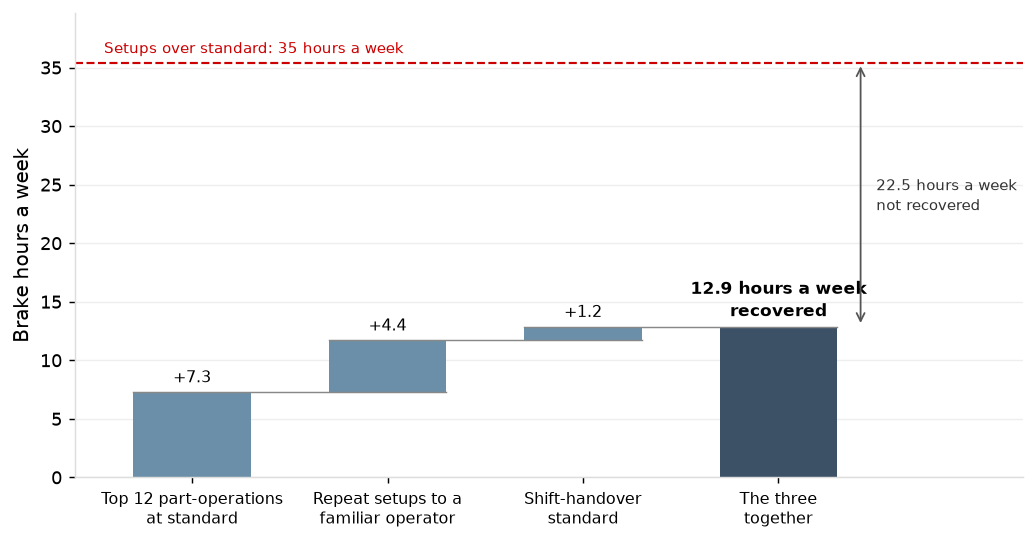
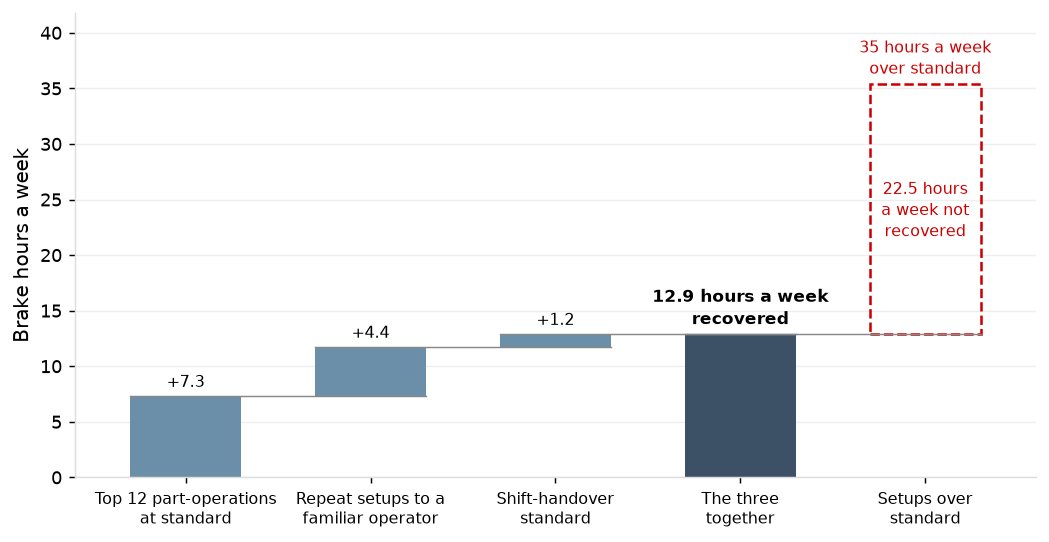
Capacity report: planned against actual brake hours, crewed hours subsection

diff --git a/docs/reports/capacity_constraints_and_setups.html b/docs/reports/capacity_constraints_and_setups.html
@@ -93,19 +93,19 @@ nav.toc a.sub { font-size: 12px; padding-left: 22px; }
 <div class='chart-title'>Share of Brake Setups Against Share of Overrun Hours by Condition, 2025</div><img alt="Share of Brake Setups Against Share of Overrun Hours by Condition, 2025" src="../figures/capacity_setup_conditions.png?v=ac1abf96"><div class='caption'>Conditions overlap; a setup can fall under more than one.</div>
 <h3 id='f3_2'>What can be recovered</h3>
 <p>Three changes recover 12.9 of the 35 hours a week, 3.8 points of brake utilization, taking the brakes from 91% to 87% and queue time on the curve from 3.08 to 1.95 days per operation. Running the top 12 part-operations by overrun at standard releases 7.3 hours a week; the rest of the overrun is spread across 1,980 part-operations. Assigning repeat setups to an operator who has set the part up before releases 4.4: first setups of a repeat part by a new operator ran at 1.56 of standard against 1.28 with prior familiarity. A handover standard, under which the operator who starts a setup finishes it or leaves a written handover at the machine, releases 1.2, the handover's own cost once long setups are set aside. The report <a href='options_tested.html'>What Moves On-Time Delivery</a> carries these 12.9 hours as the setup program. See Appendix Tables <a href='#t18'>18</a> to <a href='#t21'>21</a> for additional detail.</p>
-<div class='chart-title'>Brake Hours a Week Released by Setup Lever, 2025</div><img alt="Brake Hours a Week Released by Setup Lever, 2025" src="../figures/capacity_brake_hours_by_lever.png?v=0e3a606e">
+<div class='chart-title'>Brake Hours a Week Released by Setup Lever, 2025</div><img alt="Brake Hours a Week Released by Setup Lever, 2025" src="../figures/capacity_brake_hours_by_lever.png?v=92b17310">
 <p>Two apparent levers are smaller than they look. Operators with under 12 months run 16% above tenured operators, but 5% once familiarity, grouping, machine, lot size, bend count and shift handover are controlled for: their 636 setups were made by 4 operators, 400 by one, 67% of them on B4, and 68% were first setups of parts new to them (against 41% for tenured operators). The tenure gap is largely the familiarity gap already counted above and the work new operators are given, not a training problem. See Appendix Table <a href='#t22'>22</a> for additional detail.</p>
 <div class='chart-title'>Tenure Effect on Brake Setup Ratio as Controls Are Added</div><img alt="Tenure Effect on Brake Setup Ratio as Controls Are Added" src="../figures/setups_tenure_decomposition.png?v=5ffbf705">
 <p>Same-tooling grouping already saves 5.4 hours a week: 38% of brake setups follow a job on the same tooling set and run at 0.92 of standard against 1.33. B1 and B2 group only 26% to 27% of their setups against 42% to 46% on B3 to B5, because precision work and the hot list are run on them first; raising grouping there means loosening the priority that keeps their queues short (Section 2), so it is not counted as a lever. See Appendix Table <a href='#t23'>23</a> for additional detail.</p>
 <h3 id='f3_3'>Planning standards</h3>
-<p>The schedule and the quote are planned in standard hours, and two groups of standards misstate the hours the brakes and lasers will take, so the plan commits capacity it does not have or holds back capacity it does. L2 and L3 run at 0.81 of the run standard and L1 at 1.00; every other work center runs at 1.01 to 1.06. 553 of 1,931 active parts (29%) carry a stale standard (one dated at the part's first quote) and run 7% to 16% further above standard than refreshed parts at the same work center. See Appendix Tables <a href='#t24'>24</a> and <a href='#t25'>25</a> for additional detail.</p>
-<div class='chart-title'>Run Actual Over Standard by Work Center</div><img alt="Run Actual Over Standard by Work Center" src="../figures/setups_run_ratio.png?v=8e8c80db">
-<p>With the stale standards refreshed, planned hours rise 1.7% at the brakes and 0.9% to 3.0% elsewhere; standard hours per job rise 8% on jobs for those parts (24% of jobs) and 1.9% overall. With the L2 and L3 run standards set to measured, planned laser hours fall 13.6% and standard hours per job fall 2.6%. Both together move standard hours per job by -0.7%. The 553 stale standards should be refreshed and the L2 and L3 run standards set to measured, with the effect on standard hours per job going to estimating (<a href='quoting_and_early_warning.html'>Quoting and Early Warning from Load</a>). See Appendix Tables <a href='#t26'>26</a> and <a href='#t27'>27</a> for additional detail.</p>
-<h3 id='f3_4'>The peak and the open shift</h3>
-<p>The recovered setup hours cover an ordinary quarter; the year-end peak needs hours the brakes do not have, and the robotic weld cell has a shift it does not crew. In the six weeks from November 11, 2024 the shop released 355 brake standard hours a week against 284 hours of crewed brake capacity net of downtime (weekday shifts, in standard hours at the brakes' 1.16 actual-over-standard ratio for 2024), a shortfall of 70 hours a week that the queue absorbed; the shop ran 2 queue-triggered Saturday brake shifts and 0 extended hours over the period, supplying 28 standard hours. One Saturday brake shift on B1 and B2 supplies 14 standard hours (16 machine hours), 20% of the weekly gap; the options report tests a planned Saturday shift every week from November through February against the queue-triggered practice. See Appendix Table <a href='#t28'>28</a> for additional detail.</p>
+<p>The schedule and the quote are built in standard hours, and the brake standards understate what the brakes actually take: the 2025 plan carried 14,002 brake hours against 16,052 run, a gap of 2,050 hours, or 11.5 points of utilization the schedule did not see. Two corrections bring part of it onto the plan. Raising the setup standard on lots under 25 pieces by 24% adds 519 hours. Refreshing the 539 stale brake standards (those dated at the part's first quote, which run 7% further above standard than refreshed parts) adds 240. Together they close 37% of the gap, and the setup recovery above takes a further 669 hours off the actual. What remains, 621 hours, is the overrun the plan will still not see. See Appendix Tables <a href='#t24'>24</a> to <a href='#t27'>27</a> for additional detail.</p>
+<div class='chart-title'>Brake Hours: Planned Against Actual, 2025</div><img alt="Brake Hours: Planned Against Actual, 2025" src="../figures/capacity_brake_hours_planned_against_actual.png?v=e7ccff60">
+<p>Away from the constraint, the L2 and L3 lasers run at 0.81 of their run standard, so planned laser hours are overstated by 13.6%; setting those standards to measured is an estimating correction (<a href='quoting_and_early_warning.html'>Quoting and Early Warning from Load</a>) rather than a capacity one.</p>
+<h3 id='f3_4'>Where crewed hours fall short</h3>
+<p>Setup recovery adds 12.9 brake hours a week; the year-end peak needs far more. In the six weeks from November 11, 2024 the shop released 355 brake standard hours a week against 284 of crewed capacity, a shortfall of about 70 hours a week that went into the queue. Queue-triggered Saturday shifts covered almost none of it: 2 shifts in six weeks, 28 hours in total. One planned Saturday shift on B1 and B2 supplies 14 hours, a fifth of the weekly gap; the options report tests one every week from November through February. See Appendix Table <a href='#t28'>28</a> for additional detail.</p>
 <div class='chart-title'>Brake Hours Released Against Capacity by Week, Q4 2024 to Q1 2025</div><img alt="Brake Hours Released Against Capacity by Week, Q4 2024 to Q1 2025" src="../figures/capacity_brake_hours_released.png?v=f893d7ce">
 <p>The robotic weld cell runs one shift at 83% utilization and is at or above 95% in 20 weeks of 52; its second shift is uncrewed. Enclosures are 78% of its hours, so a second shift would serve the enclosure customers first. The options report tests and prices crewing it. See Appendix Table <a href='#t29'>29</a> for additional detail.</p>
-<p>Measured from the record: the brakes lose 35 hours a week to setups over standard, enough to put them above the knee of their curve on its own; 12.9 of those hours are recoverable by three changes; the small-lot setup standard, 553 stale standards and the L2 and L3 run standards misstate planned hours in known directions; the year-end peak releases about 70 brake hours a week more than the brakes can run; and the robotic weld cell's second shift is uncrewed. The options report takes these as its inputs.</p>
+<p><b>Measured from the record: the brakes lose 35 hours a week to setups over standard, enough to put them above the knee of their curve on its own; 12.9 of those hours are recoverable by three changes; the small-lot setup standard, 553 stale standards and the L2 and L3 run standards misstate planned hours in known directions; the year-end peak releases about 70 brake hours a week more than the brakes can run; and the robotic weld cell's second shift is uncrewed. <a href='options_tested.html'>What Moves On-Time Delivery</a> takes these as its inputs.</b></p>
 <h2 id='appendix'>Appendix</h2>
 <h3 id='t1'>Table 1. Utilization and machine uptime by work center</h3><table class="data"><thead><tr><th>Work center</th><th>Machines</th><th>Operations</th><th>Scheduled hours</th><th>Machine hours</th><th>Downtime hours</th><th>Available hours</th><th>Utilization</th><th>Uptime</th><th>Queue time, mean</th><th>Utilization, Q2-Q4</th><th>Uptime, Q2-Q4</th><th>Queue time, mean, Q2-Q4</th></tr></thead><tbody><tr><td class="">Press brake</td><td class="">5</td><td class="">5,692</td><td class="">18,300</td><td class="">16,268</td><td class="">470</td><td class="">17,830</td><td class="">91%</td><td class="">97%</td><td class="">3.54</td><td class="">91%</td><td class="">97%</td><td class="">1.77</td></tr><tr><td class="">Robotic weld</td><td class="">1</td><td class="">423</td><td class="">1,992</td><td class="">1,598</td><td class="">57</td><td class="">1,935</td><td class="">83%</td><td class="">97%</td><td class="">3.64</td><td class="">83%</td><td class="">97%</td><td class="">3.93</td></tr><tr><td class="">Laser</td><td class="">3</td><td class="">4,378</td><td class="">10,152</td><td class="">7,242</td><td class="">329</td><td class="">9,823</td><td class="">74%</td><td class="">97%</td><td class=""></td><td class="">74%</td><td class="">97%</td><td class=""></td></tr><tr><td class="">Assembly</td><td class="">2</td><td class="">695</td><td class="">3,984</td><td class="">2,669</td><td class="">100</td><td class="">3,884</td><td class="">69%</td><td class="">97%</td><td class="">1.91</td><td class="">67%</td><td class="">97%</td><td class="">1.58</td></tr><tr><td class="">Inspection and pack</td><td class="">2</td><td class="">5,241</td><td class="">3,984</td><td class="">2,573</td><td class="">144</td><td class="">3,840</td><td class="">67%</td><td class="">96%</td><td class="">0.65</td><td class="">65%</td><td class="">96%</td><td class="">0.68</td></tr><tr><td class="">Grind and deburr</td><td class="">2</td><td class="">5,680</td><td class="">3,984</td><td class="">2,586</td><td class="">115</td><td class="">3,869</td><td class="">67%</td><td class="">97%</td><td class="">0.88</td><td class="">65%</td><td class="">97%</td><td class="">0.79</td></tr><tr><td class="">Manual weld</td><td class="">6</td><td class="">1,568</td><td class="">11,952</td><td class="">7,693</td><td class="">346</td><td class="">11,606</td><td class="">66%</td><td class="">97%</td><td class="">1.07</td><td class="">62%</td><td class="">97%</td><td class="">0.83</td></tr><tr><td class="">Punch</td><td class="">1</td><td class="">820</td><td class="">1,992</td><td class="">1,284</td><td class="">49</td><td class="">1,943</td><td class="">66%</td><td class="">98%</td><td class=""></td><td class="">64%</td><td class="">98%</td><td class=""></td></tr><tr><td class="">Hardware</td><td class="">2</td><td class="">2,167</td><td class="">3,984</td><td class="">2,572</td><td class="">83</td><td class="">3,901</td><td class="">66%</td><td class="">98%</td><td class="">0.87</td><td class="">65%</td><td class="">98%</td><td class="">0.87</td></tr><tr><td class="">Powder coat</td><td class="">1</td><td class="">2,367</td><td class="">2,044</td><td class="">1,106</td><td class="">53</td><td class="">1,991</td><td class="">56%</td><td class="">97%</td><td class="">0.56</td><td class="">54%</td><td class="">98%</td><td class="">0.53</td></tr></tbody></table>
 <h3 id='t2'>Table 2. Weekly utilization at or above 95% by work center: weeks, queue time, jobs at the work center and share of hours</h3><p><b>2025</b></p><table class="data"><thead><tr><th>Work center</th><th>Utilization</th><th>Weeks at or above 95%</th><th>Of which full five-day weeks</th><th>Queue time in those weeks</th><th>Queue time in the other weeks</th><th>Jobs at the work center in those weeks, daily mean</th><th>Jobs at the work center in the other weeks, daily mean</th><th>Share of machine hours in those weeks</th></tr></thead><tbody><tr><td class="">Press brake</td><td class="">91%</td><td class="">24 of 52</td><td class="">20</td><td class="">3.06</td><td class="">3.98</td><td class="">63.5</td><td class="">86.0</td><td class="">48%</td></tr><tr><td class="">Robotic weld</td><td class="">83%</td><td class="">20 of 52</td><td class="">15</td><td class="">5.05</td><td class="">2.89</td><td class="">9.2</td><td class="">5.5</td><td class="">44%</td></tr><tr><td class="">Laser</td><td class="">74%</td><td class="">4 of 52</td><td class="">3</td><td class="">2.21</td><td class="">1.25</td><td class="">91.3</td><td class="">48.4</td><td class="">9%</td></tr><tr><td class="">Assembly</td><td class="">69%</td><td class="">11 of 52</td><td class="">10</td><td class="">4.35</td><td class="">1.09</td><td class="">12.7</td><td class="">4.6</td><td class="">30%</td></tr><tr><td class="">Inspection and pack</td><td class="">67%</td><td class="">0 of 52</td><td class="">0</td><td class=""></td><td class="">0.65</td><td class=""></td><td class="">14.5</td><td class="">0%</td></tr><tr><td class="">Grind and deburr</td><td class="">67%</td><td class="">2 of 52</td><td class="">1</td><td class="">1.89</td><td class="">0.84</td><td class="">45.8</td><td class="">19.9</td><td class="">4%</td></tr><tr><td class="">Manual weld</td><td class="">66%</td><td class="">3 of 52</td><td class="">3</td><td class="">2.81</td><td class="">0.97</td><td class="">28.4</td><td class="">9.4</td><td class="">9%</td></tr><tr><td class="">Punch</td><td class="">66%</td><td class="">10 of 52</td><td class="">8</td><td class="">2.22</td><td class="">0.38</td><td class="">13.3</td><td class="">6.8</td><td class="">27%</td></tr><tr><td class="">Hardware</td><td class="">66%</td><td class="">0 of 52</td><td class="">0</td><td class=""></td><td class="">0.87</td><td class=""></td><td class="">9.5</td><td class="">0%</td></tr><tr><td class="">Powder coat</td><td class="">56%</td><td class="">0 of 52</td><td class="">0</td><td class=""></td><td class="">0.56</td><td class=""></td><td class="">15.1</td><td class="">0%</td></tr></tbody></table><p><b>2025 Q2-Q4</b></p><table class="data"><thead><tr><th>Work center</th><th>Utilization</th><th>Weeks at or above 95%</th><th>Of which full five-day weeks</th><th>Queue time in those weeks</th><th>Queue time in the other weeks</th><th>Jobs at the work center in those weeks, daily mean</th><th>Jobs at the work center in the other weeks, daily mean</th><th>Share of machine hours in those weeks</th></tr></thead><tbody><tr><td class="">Press brake</td><td class="">91%</td><td class="">21 of 39</td><td class="">17</td><td class="">2.00</td><td class="">1.57</td><td class="">41.0</td><td class="">35.0</td><td class="">57%</td></tr><tr><td class="">Robotic weld</td><td class="">83%</td><td class="">17 of 39</td><td class="">13</td><td class="">5.26</td><td class="">2.94</td><td class="">9.9</td><td class="">5.9</td><td class="">50%</td></tr><tr><td class="">Laser</td><td class="">74%</td><td class="">3 of 39</td><td class="">3</td><td class="">1.99</td><td class="">0.83</td><td class="">78.8</td><td class="">46.3</td><td class="">10%</td></tr><tr><td class="">Assembly</td><td class="">67%</td><td class="">5 of 39</td><td class="">5</td><td class="">3.72</td><td class="">1.15</td><td class="">10.9</td><td class="">5.0</td><td class="">19%</td></tr><tr><td class="">Hardware</td><td class="">65%</td><td class="">0 of 39</td><td class="">0</td><td class=""></td><td class="">0.88</td><td class=""></td><td class="">9.8</td><td class="">0%</td></tr><tr><td class="">Inspection and pack</td><td class="">65%</td><td class="">0 of 39</td><td class="">0</td><td class=""></td><td class="">0.68</td><td class=""></td><td class="">15.3</td><td class="">0%</td></tr><tr><td class="">Grind and deburr</td><td class="">65%</td><td class="">0 of 39</td><td class="">0</td><td class=""></td><td class="">0.79</td><td class=""></td><td class="">19.6</td><td class="">0%</td></tr><tr><td class="">Punch</td><td class="">64%</td><td class="">7 of 39</td><td class="">6</td><td class="">1.26</td><td class="">0.26</td><td class="">11.2</td><td class="">6.6</td><td class="">27%</td></tr><tr><td class="">Manual weld</td><td class="">62%</td><td class="">1 of 39</td><td class="">1</td><td class="">2.58</td><td class="">0.78</td><td class="">25.4</td><td class="">8.5</td><td class="">4%</td></tr><tr><td class="">Powder coat</td><td class="">54%</td><td class="">0 of 39</td><td class="">0</td><td class=""></td><td class="">0.53</td><td class=""></td><td class="">14.4</td><td class="">0%</td></tr></tbody></table><p><b>2023 to 2025</b></p><table class="data"><thead><tr><th>Work center</th><th>Weeks at or above 95%</th><th>Queue time in those weeks</th><th>Queue time in the other weeks</th></tr></thead><tbody><tr><td class="">Press brake</td><td class="">40 of 155</td><td class="">2.42</td><td class="">1.68</td></tr><tr><td class="">Robotic weld</td><td class="">39 of 155</td><td class="">4.23</td><td class="">1.93</td></tr><tr><td class="">Assembly</td><td class="">20 of 155</td><td class="">3.44</td><td class="">1.09</td></tr><tr><td class="">Punch</td><td class="">18 of 155</td><td class="">2.40</td><td class="">0.40</td></tr><tr><td class="">Manual weld</td><td class="">7 of 155</td><td class="">2.98</td><td class="">0.97</td></tr><tr><td class="">Laser</td><td class="">6 of 155</td><td class="">2.11</td><td class="">1.06</td></tr><tr><td class="">Grind and deburr</td><td class="">3 of 155</td><td class="">1.77</td><td class="">0.81</td></tr><tr><td class="">Hardware</td><td class="">2 of 155</td><td class="">1.66</td><td class="">0.86</td></tr><tr><td class="">Powder coat</td><td class="">0 of 155</td><td class=""></td><td class="">0.54</td></tr><tr><td class="">Inspection and pack</td><td class="">0 of 155</td><td class=""></td><td class="">0.68</td></tr></tbody></table><p><b>Brake queue 90th percentile by quarter, 2025</b></p><table class="data"><thead><tr><th>Q1</th><th>Q2</th><th>Q3</th><th>Q4</th></tr></thead><tbody><tr><td class="">17.1</td><td class="">9.1</td><td class="">2.8</td><td class="">3.0</td></tr></tbody></table>

diff --git a/analytics/reports/capacity_constraints_and_setups.py b/analytics/reports/capacity_constraints_and_setups.py
@@ -373,6 +373,54 @@ def fig_brake_cases():
     return save(f, "capacity_brake_utilization_setup_overrun", f"Brake Utilization and Queue Time on the Curve, With and Without Setup Overrun, {YEAR}")
 
 
+def brake_plan():
+    """Brake hours for the year as planned and as run, on the operations with a routing standard: the plan with the small-lot setup standard raised and
+    the stale standards refreshed, and the actual with the recoverable setup hours taken off."""
+    r = S.D["r"]
+    b = r[r["has_routing"] & (r["work_center"] == "press_brake")]
+    planned, actual = float((b["setup_std"] + b["run_std_hours"]).sum()), float((b["setup_hours"] + b["run_hours"]).sum())
+    bump = float(S.LOT.loc["under 25", "median_ratio"] / S.LOT.drop("under 25")["median_ratio"].mean() - 1)
+    small = float(b[b["qty"] < 25]["setup_std"].sum() * bump)
+    w = S.SWC.set_index("work_center").loc["press_brake"]
+    assert abs(w["planned"] - planned) < 1e-6
+    stale = float(w["refreshed"] - w["planned"])
+    recovery = float(S.LEVERS) * SA.WEEKS
+    corrected, recovered = planned + small + stale, actual - recovery
+    u = C.UY.loc["press_brake"]
+    return dict(planned=planned, actual=actual, gap=actual - planned, points=(actual - planned) / float(u["scheduled"] - u["down"]) * 100, bump=bump, small=small,
+                stale=stale, stale_parts=int(b[b["stale_standard"]]["part_id"].nunique()), closed=(small + stale) / (actual - planned), recovery=recovery,
+                corrected=corrected, recovered=recovered, remaining=recovered - corrected)
+
+
+def fig_brake_plan():
+    p = brake_plan()
+    rows = [("Planned, current standards", 0, p["planned"], LIGHT_BLUE, f"{p['planned']:,.0f}"),
+            ("+ Small-lot setup standard", p["planned"], p["small"], ACCENT, f"+{p['small']:,.0f}"),
+            ("+ Stale standards refreshed", p["planned"] + p["small"], p["stale"], ACCENT, f"+{p['stale']:,.0f}"),
+            ("= Planned, corrected", 0, p["corrected"], BRAND_BLUE, f"{p['corrected']:,.0f}"),
+            ("Actual", 0, p["actual"], LIGHT_BLUE, f"{p['actual']:,.0f}"),
+            ("\u2212 Setup recovery", p["recovered"], p["recovery"], ACCENT, f"\u2212{p['recovery']:,.0f}"),
+            ("= Actual, with recovery", 0, p["recovered"], BRAND_BLUE, f"{p['recovered']:,.0f}")][::-1]
+    y = np.arange(len(rows))
+    start = float(np.floor(p["planned"] / 1000 - 1) * 1000)          # the axis starts short of the plan, so that steps of a few hundred hours can be read
+    f, ax = fig(h=4.6, grid="x")
+    for yi, (_, left, width, color, label) in zip(y, rows):
+        ax.barh([yi], [float(sig(width))], left=float(sig(left)), height=0.6, color=color)
+        ax.text(float(sig(left + width)) + 40, yi, label, ha="left", va="center", fontsize=9)
+    lo, hi = float(sig(p["corrected"])), float(sig(p["recovered"]))
+    ax.plot([lo, lo], [0, 3], color=RED, linewidth=1.0, linestyle="--")
+    ax.plot([lo, lo, hi, hi], [-0.42, -0.62, -0.62, -0.42], color=RED, linewidth=1.3)
+    ax.text((lo + hi) / 2, -0.72, f"Remaining gap, {p['remaining']:,.0f} hours", ha="center", va="top", fontsize=9, color=RED)
+    ax.set_yticks(y)
+    ax.set_yticklabels([r_[0] for r_ in rows])
+    ax.set_xlim(start, p["actual"] * 1.045)
+    ax.set_ylim(-1.25, len(rows) - 0.4)
+    ax.xaxis.set_major_formatter(lambda t, _: f"{t:,.0f}")
+    ax.set_xlabel(f"Brake machine hours, {YEAR}")
+    f.tight_layout()
+    return save(f, "capacity_brake_hours_planned_against_actual", f"Brake Hours: Planned Against Actual, {YEAR}")
+
+
 def fig_levers():
     """Brake hours a week recovered by each setup lever, stepping up to the three together, against the setup overrun."""
     cf = S.HCF.iloc[1]
@@ -391,14 +439,14 @@ def fig_levers():
     n = len(steps)
     ax.bar([n], [float(sig(total))], width=0.6, color=BRAND_BLUE)
     ax.text(n, total + 0.5, f"{total:.1f} hours a week" + "\n" + "recovered", ha="center", va="bottom", fontsize=9.5, fontweight="bold", linespacing=1.3)
-    ax.axhline(float(sig(over)), color=RED, linewidth=1.2, linestyle="--")
-    ax.text(-0.45, over + 0.5, f"Setups over standard: {over:.0f} hours a week", ha="left", va="bottom", fontsize=8.5, color=RED)
-    ax.annotate("", (n + 0.42, float(sig(over))), (n + 0.42, float(sig(total))), arrowprops=dict(arrowstyle="<->", color="#555555", linewidth=1.0))
-    ax.text(n + 0.5, (over + total) / 2, f"{over - total:.1f} hours a week" + "\n" + "not recovered", ha="left", va="center", fontsize=8.5, color="#333333", linespacing=1.3)
-    ax.set_xticks(range(n + 1))
-    ax.set_xticklabels([s_ for s_, _ in steps] + ["The three" + "\n" + "together"], fontsize=9)
-    ax.set_xlim(-0.6, n + 1.25)
-    ax.set_ylim(0, over * 1.12)
+    ax.plot([n - 0.3, n + 1.3], [float(sig(total))] * 2, color="#888888", linewidth=0.8)
+    ax.bar([n + 1], [float(sig(over - total))], bottom=float(sig(total)), width=0.6, fill=False, edgecolor=RED, linestyle="--", linewidth=1.4)
+    ax.text(n + 1, (over + total) / 2, f"{over - total:.1f} hours" + "\n" + "a week not" + "\n" + "recovered", ha="center", va="center", fontsize=9, color=RED, linespacing=1.3)
+    ax.text(n + 1, over + 0.5, f"{over:.0f} hours a week" + "\n" + "over standard", ha="center", va="bottom", fontsize=9, color=RED, linespacing=1.3)
+    ax.set_xticks(range(n + 2))
+    ax.set_xticklabels([s_ for s_, _ in steps] + ["The three" + "\n" + "together", "Setups over" + "\n" + "standard"], fontsize=9)
+    ax.set_xlim(-0.6, n + 1.6)
+    ax.set_ylim(0, over * 1.18)
     ax.set_ylabel("Brake hours a week")
     f.tight_layout()
     return save(f, "capacity_brake_hours_by_lever", f"Brake Hours a Week Released by Setup Lever, {YEAR}")
@@ -768,47 +816,45 @@ def build():
              f"{T.see('grouping')}</p>")
 
     b.append("<h3 id='f3_3'>Planning standards</h3>")
-    POP, gap = S.POP, S.SRAT["run_gap"]
-    b.append(f"<p>The schedule and the quote are planned in standard hours, and two groups of standards misstate the hours the brakes and lasers will take, "
-             f"so the plan commits capacity it does not have or holds back capacity it does. {newer} run at {d2(S.LF[S.NEWER].mean())} of the run standard and L1 at {d2(S.LF['L1'])}; every other work center runs at "
-             f"{d2(other_run.min())} to {d2(other_run.max())}. {n0(POP['stale_parts'])} of {n0(POP['active_parts_with_routing'])} active parts "
-             f"({pct(POP['stale_share'], 0)}) carry a stale standard (one dated at the part's first quote) and run {pct(gap.min(), 0)} to {pct(gap.max(), 0)} further "
-             f"above standard than refreshed parts at the same work center. {T.see('run', 'stale')}</p>")
-    b.append(titled(S.fig_run(), "Run Actual Over Standard by Work Center"))
-    swc = S.SWC.set_index("work_center")
-    sall, lall = S.SRC.set_index("routing_class").loc["all"], S.LRC.set_index("routing_class").loc["all"]
-    b.append(f"<p>With the stale standards refreshed, planned hours rise {pct(swc.loc['press_brake', 'change'])} at the brakes and "
-             f"{pct(swc['change'].min())} to {pct(swc['change'].max())} elsewhere; standard hours per job rise {pct(sall['change_stale_jobs'], 0)} on jobs for those parts "
-             f"({pct(sall['jobs_on_stale_parts'] / sall['jobs'], 0)} of jobs) and {pct(sall['change_all_jobs'])} overall. With the {newer} run standards set "
-             f"to measured, planned laser hours fall {pct(-S.LWC['change'].iloc[1])} and standard hours per job fall {pct(-lall['change_laser'])}. Both together move "
-             f"standard hours per job by {S.sp(lall['change_both'])}. The {n0(POP['stale_parts'])} stale standards should be refreshed and the {newer} run standards "
-             f"set to measured, with the effect on standard hours per job going to estimating ({link('quoting')}). {T.see('planned', 'quoted')}</p>")
+    POP = S.POP
+    bp = brake_plan()
+    brake_gap = float(S.SRAT.set_index("work_center").loc["press_brake", "run_gap"])
+    assert 0 < bp["remaining"] < bp["gap"] and 0 < bp["closed"] < 1
+    b.append(f"<p>The schedule and the quote are built in standard hours, and the brake standards understate what the brakes actually take: the {YEAR} plan carried "
+             f"{n0(bp['planned'])} brake hours against {n0(bp['actual'])} run, a gap of {n0(bp['gap'])} hours, or {d1(bp['points'])} points of utilization the "
+             f"schedule did not see. Two corrections bring part of it onto the plan. Raising the setup standard on lots under 25 pieces by {pct(bp['bump'], 0)} adds "
+             f"{n0(bp['small'])} hours. Refreshing the {n0(bp['stale_parts'])} stale brake standards (those dated at the part's first quote, which run "
+             f"{pct(brake_gap, 0)} further above standard than refreshed parts) adds {n0(bp['stale'])}. Together they close {pct(bp['closed'], 0)} of the gap, and "
+             f"the setup recovery above takes a further {n0(bp['recovery'])} hours off the actual. What remains, {n0(bp['remaining'])} hours, is the overrun the plan "
+             f"will still not see. {T.span('run', 'stale', 'planned', 'quoted')}</p>")
+    b.append(chart(f"Brake Hours: Planned Against Actual, {YEAR}", fig_brake_plan()))
+    b.append(f"<p>Away from the constraint, the {newer} lasers run at {d2(S.LF[S.NEWER].mean())} of their run standard, so planned laser hours are overstated by "
+             f"{pct(-S.LWC['change'].iloc[1])}; setting those standards to measured is an estimating correction ({link('quoting')}) rather than a capacity one.</p>")
 
-    b.append("<h3 id='f3_4'>The peak and the open shift</h3>")
+    b.append("<h3 id='f3_4'>Where crewed hours fall short</h3>")
     pk = PEAK[PEAK["build"]]
     assert len(pk) == 6
     a_, b2 = float(pk["released"].mean()), float(pk["capacity"].mean())
     assert a_ > b2
     g_ = SATURDAY_HOURS / PEAK_RATIO
-    b.append(f"<p>The recovered setup hours cover an ordinary quarter; the year-end peak needs hours the brakes do not have, and the robotic weld cell has a "
-             f"shift it does not crew. In the six weeks from November 11, 2024 the shop released {n0(a_)} brake standard hours a week against "
-             f"{n0(b2)} hours of crewed brake capacity net of downtime (weekday shifts, in standard hours at the brakes' {d2(PEAK_RATIO)} actual-over-standard ratio "
-             f"for 2024), a shortfall of {n0(a_ - b2)} hours a week that the queue absorbed; the shop ran {n0(pk['saturday_shifts'].sum())} queue-triggered Saturday "
-             f"brake shifts and {n0(pk['extended_hours'].sum())} extended hours over the period, supplying {n0(pk['extra_hours'].sum() / PEAK_RATIO)} standard hours. "
-             f"One Saturday brake shift on B1 and B2 supplies {n0(g_)} standard hours ({n0(SATURDAY_HOURS)} machine hours), {P(g_ / (a_ - b2))} of the weekly gap; "
-             f"the options report tests a planned Saturday shift every week from November through February against the queue-triggered practice. "
-             f"{T.see('peak')}</p>")
+    supplied = pk["extra_hours"].sum() / PEAK_RATIO
+    assert round(g_ / (a_ - b2), 1) == 0.2 and pk["extended_hours"].sum() == 0 and supplied < 0.1 * (a_ - b2) * len(pk)
+    b.append(f"<p>Setup recovery adds {d1(S.LEVERS)} brake hours a week; the year-end peak needs far more. In the six weeks from November 11, 2024 the shop released "
+             f"{n0(a_)} brake standard hours a week against {n0(b2)} of crewed capacity, a shortfall of about {n0(a_ - b2)} hours a week that went into the queue. "
+             f"Queue-triggered Saturday shifts covered almost none of it: {n0(pk['saturday_shifts'].sum())} shifts in six weeks, {n0(supplied)} hours in total. One "
+             f"planned Saturday shift on B1 and B2 supplies {n0(g_)} hours, a fifth of the weekly gap; the options report tests one every week from November through "
+             f"February. {T.see('peak')}</p>")
     b.append(chart("Brake Hours Released Against Capacity by Week, Q4 2024 to Q1 2025", fig_peak()))
     b.append(f"<p>The robotic weld cell runs one shift at {P(UY.loc['robotic_weld', 'utilization'])} utilization and is at or above 95% in "
              f"{int(HY.loc['robotic_weld', 'hot_weeks'])} weeks of {int(HY.loc['robotic_weld', 'weeks'])}; its second shift is uncrewed. Enclosures are "
              f"{P(ROBOT_FAMILIES.loc['enclosure', 'share'])} of its hours, so a second shift would serve the enclosure customers first. The options report tests "
              f"and prices crewing it. {T.see('robot')}</p>")
 
-    b.append(f"<p>Measured from the record: the brakes lose {n0(ST['brake_overrun_per_week'])} hours a week to setups over standard, enough to put them above the "
+    b.append(f"<p><b>Measured from the record: the brakes lose {n0(ST['brake_overrun_per_week'])} hours a week to setups over standard, enough to put them above the "
              f"knee of their curve on its own; {d1(S.LEVERS)} of those hours are recoverable by three changes; the small-lot setup standard, "
              f"{n0(POP['stale_parts'])} stale standards and the {newer} run standards misstate planned hours in known directions; the year-end peak releases about "
-             f"{n0(a_ - b2)} brake hours a week more than the brakes can run; and the robotic weld cell's second shift is uncrewed. The options report takes these "
-             f"as its inputs.</p>")
+             f"{n0(a_ - b2)} brake hours a week more than the brakes can run; and the robotic weld cell's second shift is uncrewed. {link('options')} takes these "
+             f"as its inputs.</b></p>")
 
     b.append("<h2 id='appendix'>Appendix</h2>")
     b.append(T.appendix())

diff --git a/analytics/setups/sections.py b/analytics/setups/sections.py
@@ -73,21 +73,6 @@ def fig_tenure(name="setups_tenure_decomposition", h=3.0):
     return save(f, name, "Tenure effect on brake setup ratio as controls are added")
 
 
-def fig_run():
-    w = RWC.set_index("work_center")["run_ratio"].drop("laser")
-    rows = [(f"Laser {m}", float(r)) for m, r in zip(RLAS["machine_id"], RLAS["run_ratio"])] + [(WC[k], float(v)) for k, v in w.sort_values().items()]
-    f, ax = fig(h=3.2)
-    ax.bar([r[0] for r in rows], [r[1] for r in rows], color=[AMBER if r[0] in [f"Laser {m}" for m in NEWER] else ACCENT if r[0].startswith("Laser") else LIGHT_BLUE for r in rows])
-    ax.axhline(1.0, color=GREY, linewidth=1, linestyle="--")
-    ax.set_ylim(0.6, 1.15)
-    ax.set_ylabel("Run actual over standard")
-    for lab in ax.get_xticklabels():
-        lab.set_rotation(25)
-        lab.set_ha("right")
-    f.tight_layout()
-    return save(f, "setups_run_ratio", "Run actual over standard by work center")
-
-
 # ── tables ──────────────────────────────────────────────────────────────────
 COLS = ["Setups", "Median ratio", "Hours over standard ratio", "90th percentile", "Setup hours", "Standard hours", "Overrun hours"]
 
